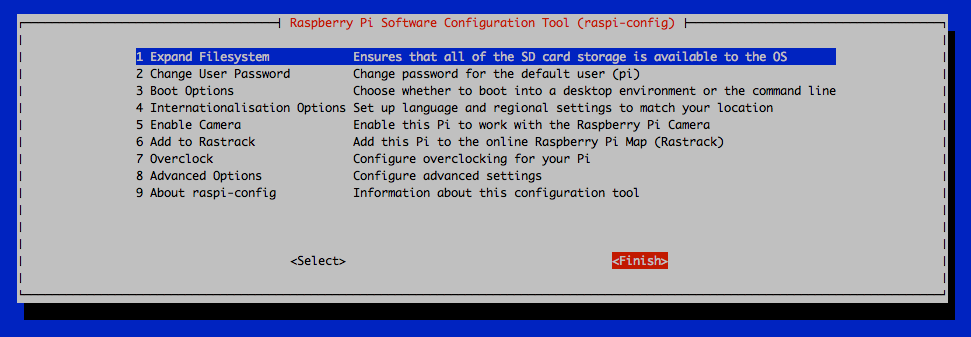
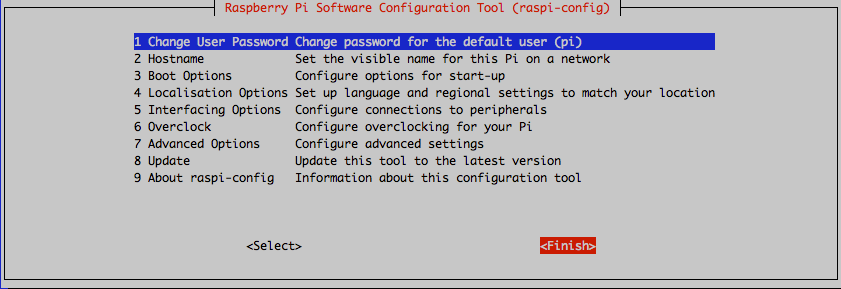
1. modify explain and image about rasp-conf for raspberry pi user guide 2. modify legacy command in trubleshooting (getmac->getGatewayId) 3. Insert an API, MQTT guide video clip at deverper guide

diff --git a/posts/en/posts/rest-api/012_restapi.md b/posts/en/posts/rest-api/012_restapi.md
@@ -1,5 +1,5 @@
 ---
-title: REST API
+title: REST API & MQTT
 tags: "rest-api"
 published: true
 img: ic-restapi.png
@@ -18,14 +18,20 @@ permalink: /en/rest-api/rest-api.html
 
 - [thingplus REST API document](https://thingplus.api-docs.io/2.0/getting-started)
 
+<div align="center" class="embed-responsive embed-responsive-16by9">
+  <iframe src="http://www.youtube.com/embed/bD8Bg8Bxy4Y?hl=en_US&loop=1&autoplay=0&playlist=bD8Bg8Bxy4Y"></iframe>
+</div>
 
 ### How to push sensor data / status to Thing+
 
 - MQTT protocol should be used.
-- Please refer to [THIS GUIDE](https://github.com/daliworks/thingplus-embedded/blob/master/docs/Thingplus_Embedded_Guide_EN.md) as well as: 
-  - [Pushing sensor status data](https://github.com/daliworks/thingplus-embedded/blob/master/docs/Thingplus_Embedded_Guide_EN.md#224-transmission-of-the-sensor-status-data)
-  - [Pushing sensor value data](https://github.com/daliworks/thingplus-embedded/blob/master/docs/Thingplus_Embedded_Guide_EN.md#226-transmission-of-the-sensor-value-data)
+- Please refer to [THIS GUIDE](https://github.com/daliworks/thingplus-embedded/blob/master/docs/Thingplus_Embedded_Guide.md) as well as: 
+  - [Pushing sensor status data](https://github.com/daliworks/thingplus-embedded/blob/master/docs/Thingplus_Embedded_Guide.md#224-%EC%84%BC%EC%84%9C-%EC%83%81%ED%83%9C-%EC%A0%84%EC%86%A1)
+  - [Pushing sensor value data](https://github.com/daliworks/thingplus-embedded/blob/master/docs/Thingplus_Embedded_Guide.md#226-%EC%84%BC%EC%84%9C%EA%B0%92-%EC%A0%84%EC%86%A1)
 
+<div align="center" class="embed-responsive embed-responsive-16by9">
+  <iframe src="http://www.youtube.com/embed/wv3ga27--qM?hl=en_US&loop=1&autoplay=0&playlist=wv3ga27--qM"></iframe>
+</div>
 
 <br/>
 <br/>

diff --git a/posts/ko/posts/open-hardware/051_raspberrypi_cam_user_guide.md b/posts/ko/posts/open-hardware/051_raspberrypi_cam_user_guide.md
@@ -161,15 +161,18 @@ ___이 가이드는 Raspberry pi와 Camera 모듈을 연동한 IOT 사용 가이
 ```
 
    
-- 4GB 이상의 SD card를 사용하기 위해서 `1. Expand Filesystem`을 선택한다.
+- 4GB 이상의 SD card를 사용하기 위해서 `7. Advanced Options` - `A1. Expand Filesystem` 을 선택한다.
   ![Raspberry Pi Setting File sytsem](/assets/expand_file_system.png)
+  ![Raspberry Pi Setting File sytsem](/assets/expand_file_system2.png)
 
    
-- Camera 모듈을 사용하기 위해서 `5. Enable Camera` 
+- I2C를 사용하기 위해서 `5.Interfacing Options` --> `P5 I2C`을 선택하고 이후 물음에 모두 `Yes`를 선택한다.
+  ![Raspberry Pi Setting advanced options](/assets/advanced_options.png)
+  ![Raspberry Pi Setting choose i2c](/assets/choose_i2c.png)
+
+- Camera 모듈을 사용하기 위해서 `P1.  Camera`를 선택하고 이후 물음에 모두 `Yes`를 선택한다.
   ![Raspberry Pi Setting Enable camera](/assets/pi-cam-01.png)
-  ![Raspberry Pi Setting confirm](/assets/pi-cam-02.png)
 
-   
 - Tab키를 누르고 Finish를 선택한 후 Reboot할 것이냐는 물음에 `Yes`를 선택한다.
   ![Raspberry Pi Choose Finish](/assets/choose_finish.png)
   ![Raspberry Pi Choose Finish](/assets/choose_finish_2.png)

diff --git a/posts/ko/posts/rest-api/012_restapi.md b/posts/ko/posts/rest-api/012_restapi.md
@@ -1,5 +1,5 @@
 ---
-title: REST API
+title: REST API & MQTT
 tags: "rest-api"
 published: true
 img: ic-restapi.png
@@ -18,12 +18,20 @@ permalink: /ko/rest-api/rest-api.html
 
 - [thingplus REST API document](https://thingplus.api-docs.io/2.0/getting-started)
 
+<div align="center" class="embed-responsive embed-responsive-16by9">
+  <iframe src="http://www.youtube.com/embed/bD8Bg8Bxy4Y?hl=en_US&loop=1&autoplay=0&playlist=bD8Bg8Bxy4Y"></iframe>
+</div>
+
 ### How to push sensor data / status to Thing+
 
 - MQTT protocol should be used.
 - Please refer to [THIS GUIDE](https://github.com/daliworks/thingplus-embedded/blob/master/docs/Thingplus_Embedded_Guide.md) as well as: 
   - [Pushing sensor status data](https://github.com/daliworks/thingplus-embedded/blob/master/docs/Thingplus_Embedded_Guide.md#224-%EC%84%BC%EC%84%9C-%EC%83%81%ED%83%9C-%EC%A0%84%EC%86%A1)
   - [Pushing sensor value data](https://github.com/daliworks/thingplus-embedded/blob/master/docs/Thingplus_Embedded_Guide.md#226-%EC%84%BC%EC%84%9C%EA%B0%92-%EC%A0%84%EC%86%A1)
+
+<div align="center" class="embed-responsive embed-responsive-16by9">
+  <iframe src="http://www.youtube.com/embed/wv3ga27--qM?hl=en_US&loop=1&autoplay=0&playlist=wv3ga27--qM"></iframe>
+</div>
 
 <br/>
 <br/>

diff --git a/posts/en/posts/open-hardware/051_raspberrypi_cam_user_guide.md b/posts/en/posts/open-hardware/051_raspberrypi_cam_user_guide.md
@@ -155,13 +155,17 @@ Before you try to do as this guide. you must have account for dropbox.___
 ```
 
    
-- To use micro SD card which has storage bigger than 4GB, Choose `1. Expand Filesystem`.
+- To use micro SD card which has storage bigger than 4GB, Choose `7. Advanced Options` - `A1. Expand Filesystem`.
   ![Raspberry Pi + Grove Pi](/assets/expand_file_system.png)
+  ![Raspberry Pi + Grove Pi](/assets/expand_file_system2.png)
 
-   
-- To Use Camera module, Choose `5. Enable Camera` 
+
+- To use I2C, Choose `5.Interfacing Options` --> `P5 I2C`, and then please Select `Yes` for all the following questions.
+  ![Raspberry Pi + Grove Pi](/assets/advanced_options.png)
+  ![Raspberry Pi + Grove Pi](/assets/choose_i2c.png)
+
+- To Use Camera module, Choose `P1  Enable Camera`, and then please Select `Yes` for all the following questions. 
   ![Raspberry Pi Setting Enable camera](/assets/pi-cam-01.png)
-  ![Raspberry Pi Setting confirm](/assets/pi-cam-02.png)
 
    
 - Press Tab key on your keyboard and choose `Finish`, and then please Select `Yes` for the question about Rebooting the device.

diff --git a/posts/ko/posts/open-hardware/050_raspberrypi_user_guide.md b/posts/ko/posts/open-hardware/050_raspberrypi_user_guide.md
@@ -154,11 +154,12 @@ Thing+ 연동가이드(라즈베리파이)
 ```
 
    
-- 4GB 이상의 SD card를 사용하기 위해서 `1. Expand Filesystem`을 선택한다.
+- 4GB 이상의 SD card를 사용하기 위해서 `7. Advanced Options` - `A1. Expand Filesystem`을 선택한다.
   ![Raspberry Pi Setting File sytsem](/assets/expand_file_system.png)
+  ![Raspberry Pi Setting File sytsem](/assets/expand_file_system2.png)
 
    
-- I2C를 사용하기 위해서 `Advanced Options` --> `I2C`을 선택하고 이후 물음에 모두 `Yes`를 선택한다.
+- I2C를 사용하기 위해서 `5.Interfacing Options` --> `P5 I2C`을 선택하고 이후 물음에 모두 `Yes`를 선택한다.
   ![Raspberry Pi Setting advanced options](/assets/advanced_options.png)
   ![Raspberry Pi Setting choose i2c](/assets/choose_i2c.png)
 

diff --git a/posts/en/posts/open-hardware/050_raspberrypi_user_guide.md b/posts/en/posts/open-hardware/050_raspberrypi_user_guide.md
@@ -157,11 +157,12 @@ Thing+ Integragtion Guide for Raspberry Pi
 @Pi:$ raspi-config
 ```
  
-- To use micro SD card which has storage bigger than 4GB, Choose `1. Expand Filesystem`.
+- To use micro SD card which has storage bigger than 4GB, Choose `7. Advanced Options` - `A1. Expand Filesystem`.
 ![Raspberry Pi + Grove Pi](/assets/expand_file_system.png)
+![Raspberry Pi + Grove Pi](/assets/expand_file_system2.png)
 
 
-- To use I2C, Choose `Advanced Options` --> `I2C`, and then please Select `Yes` for all the following questions.
+- To use I2C, Choose `5.Interfacing Options` --> `P5 I2C`, and then please Select `Yes` for all the following questions.
 ![Raspberry Pi + Grove Pi](/assets/advanced_options.png)
 ![Raspberry Pi + Grove Pi](/assets/choose_i2c.png)
 

diff --git a/posts/ko/posts/help/020_troubleshooting.md b/posts/ko/posts/help/020_troubleshooting.md
@@ -103,7 +103,7 @@ Gateway가 기등록 되었는지 확인 합니다.
 
 - 상단 메뉴에서 `센서목록`에 가서 등록하려던 Gateway가 이미 등록 되어 있는지 확인합니다.
 - 이미 등록이 되어 있고 정상동작을 하지 않는다면, `게이트웨이관리`에서 해당 gateway를 삭제 합니다.
-- `./getmac` 으로 받아온 값을 이용해서 API KEY를 받고 최초 실행시 APIKEY를 입력 했는지 확인합니다. 
+- `/opt/thingplus/gateway/scripts/getGatewayId.sh` 으로 받아온 값을 이용해서 API KEY를 받고 최초 실행시 APIKEY를 입력 했는지 확인합니다. 
 
   ```
   cd [thingplus가 설치된 위치]/gateway/thingplus-gateway/device/config

diff --git a/posts/en/posts/open-hardware/060_arduino_Pi_user_guide.md b/posts/en/posts/open-hardware/060_arduino_Pi_user_guide.md
@@ -246,8 +246,9 @@ _ThingPlus Embeded will be installed on Raspberry pi. This guide will be explain
 
 <br/>
 
-- To use micro SD card which has storage bigger than 4GB, Choose `1. Expand Filesystem`.
-   ![Raspberry Pi + Grove Pi](/assets/expand_file_system.png)
+- To use micro SD card which has storage bigger than 4GB, Choose `7. Advanced Options` - `A1. Expand Filesystem`.
+  ![Raspberry Pi + Grove Pi](/assets/expand_file_system.png)
+  ![Raspberry Pi + Grove Pi](/assets/expand_file_system2.png)
 
 - Press Tab key on your keyboard and choose `Finish`, and then please Select `Yes` for the question about Rebooting the device.
   ![Raspberry Pi Choose Finish](/assets/choose_finish.png)

diff --git a/posts/en/posts/help/020_troubleshooting.md b/posts/en/posts/help/020_troubleshooting.md
@@ -97,7 +97,7 @@ Make sure Gateway is pre-registered.
 
 - If it is already registered and does not operate normally, delete the gateway from `Gateway Management`.
 
-- `./getmac`` to get the API KEY and make sure that APIKEY is entered at first execution.
+- `/opt/thingplus/gateway/scripts/getGatewayId.sh` to get the API KEY and make sure that APIKEY is entered at first execution.
 
   ```
   cd [Location where thingplus is installed]/gateway/thingplus-gateway/device/config
